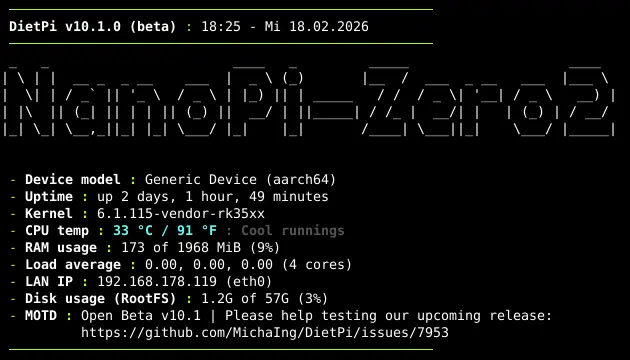
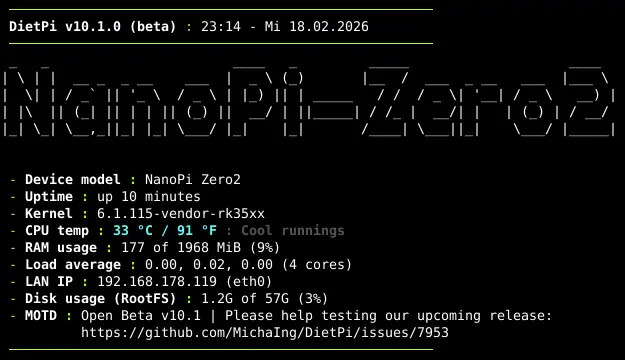
Device model name in screenshot updated

diff --git a/docs/releases/v10_1.md b/docs/releases/v10_1.md
@@ -12,7 +12,7 @@ image: https://dietpi.com/docs/assets/images/uptime-kuma.webp
 
 The **February 21th, 2026** release of **DietPi v10.1** comes with a new image for the NanoPi Zero2 and further enhancements and fixes.  
 
-![NanoPi Zero2 DietPi-Banner screenshot](../assets/images/dietpi-release-v10_1.webp "DietPi-Banner screen output")
+![NanoPi Zero2 DietPi-Banner screenshot](../assets/images/dietpi-release-v10_1.webp "DietPi-Banner screen output"){: width="625" height="360" loading="lazy"}
 
 !!! cite "DietPi-Banner output on NanoPi Zero2 screenshot by @StephanStS"
 
